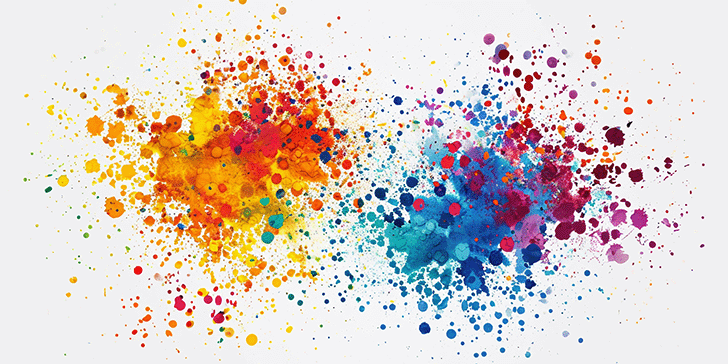
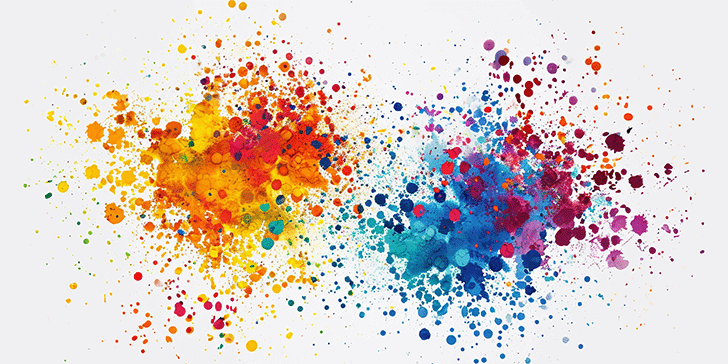
Update documentation

diff --git a/chap02_ls/00_intro/roch-mmids-ls-intro.html b/chap02_ls/00_intro/roch-mmids-ls-intro.html
@@ -281,7 +281,7 @@ document.write(`
 <div id="searchbox"></div>
                 <article class="bd-article" role="main">
                   
-  <p><img alt="Squares" src="../../_images/squares_of_different_sizes.png" /></p>
+  <p><img alt="Squares" src="../../_images/squares_of_different_sizes-small.png" /></p>
 <section class="tex2jax_ignore mathjax_ignore" id="least-squares">
 <h1><span class="section-number">2. </span>Least squares<a class="headerlink" href="#least-squares" title="Permalink to this headline">#</a></h1>
 <p>In this chapter and the next, we introduce two linear-algebraic workhorses of data science, least squares and singular value decomposition, and develop the mathematical concepts at their foundation.</p>
